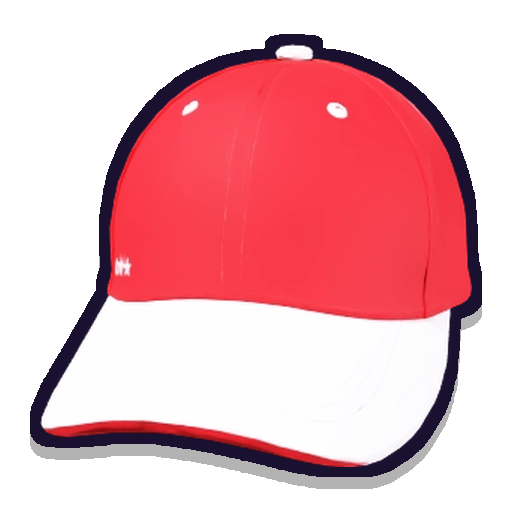
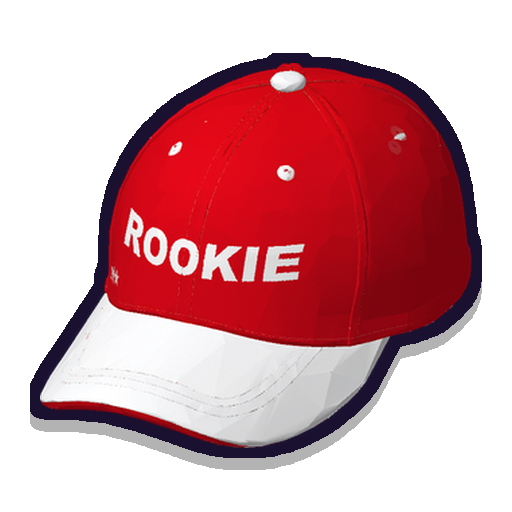
feat: "ROOKIE" lettering on the Rookie Cap
Meshy can't spell, so add-cap-lettering.py paints the word onto the
cap's front panel through the mesh's UVs (projected straight along z so
it reads level) and renders a new tile picture. Lettered texture and
picture uploaded; the cap is still disabled until its mesh is imported.

diff --git a/assets/seasonpass/add-cap-lettering.py b/assets/seasonpass/add-cap-lettering.py
@@ -1,0 +1,129 @@
+# Prints "ROOKIE" across the front panel of the Rookie Cap's Meshy texture.
+# Meshy can't spell, so the lettering is painted in afterwards: every texel
+# on the forward-facing crown (the peak points +z) is mapped back to its 3D
+# point, and the word is projected straight on along z, so it reads level.
+# Writes models/RookieCapHat/texture-lettered.png, and thumb-lettered.png (a
+# simple render that make-wear-pictures.py uses in place of Meshy's thumb).
+# Run: python add-cap-lettering.py  (needs numpy + Pillow)
+import json, os, struct
+import numpy as np
+from PIL import Image, ImageDraw, ImageFont
+
+HERE = os.path.dirname(os.path.abspath(__file__))
+DIR = os.path.join(HERE, "models", "RookieCapHat")
+WORD, FONT = "ROOKIE", "C:/Windows/Fonts/ariblk.ttf"
+TEXT_W, TEXT_CY = 0.74, 0.04  # model units: word width, and its centre height
+INK = (255, 255, 255)
+
+# --- mesh -------------------------------------------------------------------
+raw = open(os.path.join(DIR, "model.glb"), "rb").read()
+jlen = struct.unpack("<I", raw[12:16])[0]
+gltf, binary = json.loads(raw[20 : 20 + jlen]), raw[20 + jlen + 8 :]
+
+def accessor(i):
+    a = gltf["accessors"][i]
+    view = gltf["bufferViews"][a["bufferView"]]
+    width = {"VEC3": 3, "VEC2": 2, "SCALAR": 1}[a["type"]]
+    dtype = np.float32 if a["componentType"] == 5126 else np.uint32
+    offset = view.get("byteOffset", 0) + a.get("byteOffset", 0)
+    return np.frombuffer(binary, dtype, a["count"] * width, offset).reshape(-1, width)
+
+attrs = gltf["meshes"][0]["primitives"][0]
+P = accessor(attrs["attributes"]["POSITION"]).astype(np.float64)
+N = accessor(attrs["attributes"]["NORMAL"]).astype(np.float64)
+UV = accessor(attrs["attributes"]["TEXCOORD_0"]).astype(np.float64)
+TRI = accessor(attrs["indices"]).reshape(-1, 3)
+
+# --- the word, as a mask over the model's xy plane ---------------------------
+font = ImageFont.truetype(FONT, 200)
+box = font.getbbox(WORD)
+mask = Image.new("L", (box[2] - box[0] + 40, box[3] - box[1] + 40))
+ImageDraw.Draw(mask).text((20 - box[0], 20 - box[1]), WORD, font=font, fill=255)
+mask = np.asarray(mask, np.float64) / 255
+mh, mw = mask.shape
+units_per_px = TEXT_W / mw
+x0, y0 = -TEXT_W / 2, TEXT_CY + mh * units_per_px / 2  # top-left of the mask
+
+def word_alpha(xy):
+    col = ((xy[:, 0] - x0) / units_per_px).astype(int)  # seen from +z, +x is right
+    row = ((y0 - xy[:, 1]) / units_per_px).astype(int)
+    ok = (col >= 0) & (col < mw) & (row >= 0) & (row < mh)
+    out = np.zeros(len(xy))
+    out[ok] = mask[row[ok], col[ok]]
+    return out
+
+# --- paint it into the texture, triangle by triangle in UV space --------------
+tex = np.asarray(Image.open(os.path.join(DIR, "texture.png")).convert("RGB"), np.float64)
+H, W = tex.shape[:2]
+front = (N[TRI].mean(1)[:, 2] > 0.3) & (P[TRI].mean(1)[:, 2] > 0) & (P[TRI].min(1)[:, 1] > -0.32)
+for t in TRI[front]:
+    uv = UV[t] * [W, H]
+    lo = np.floor(uv.min(0)).astype(int) - 1
+    hi = np.ceil(uv.max(0)).astype(int) + 1
+    xs, ys = np.meshgrid(np.arange(lo[0], hi[0]) + 0.5, np.arange(lo[1], hi[1]) + 0.5)
+    pts = np.stack([xs.ravel(), ys.ravel()], 1)
+    (ax, ay), (bx, by), (cx, cy) = uv
+    det = (by - cy) * (ax - cx) + (cx - bx) * (ay - cy)
+    if abs(det) < 1e-9:
+        continue
+    l1 = ((by - cy) * (pts[:, 0] - cx) + (cx - bx) * (pts[:, 1] - cy)) / det
+    l2 = ((cy - ay) * (pts[:, 0] - cx) + (ax - cx) * (pts[:, 1] - cy)) / det
+    bary = np.stack([l1, l2, 1 - l1 - l2], 1)
+    inside = (bary > -0.05).all(1)  # a little bleed so UV seams don't show
+    pts, bary = pts[inside], bary[inside]
+    a = word_alpha(bary @ P[t][:, :2])
+    px = np.clip(pts.astype(int), 0, [W - 1, H - 1])
+    hit = a > 0
+    px, a = px[hit], a[hit, None]
+    tex[px[:, 1], px[:, 0]] = tex[px[:, 1], px[:, 0]] * (1 - a) + np.array(INK) * a
+Image.fromarray(tex.astype(np.uint8)).save(os.path.join(DIR, "texture-lettered.png"))
+print("wrote texture-lettered.png")
+
+# --- a quick render for the tile picture (orthographic, front three-quarter) --
+S = 1024
+yaw, pitch = np.radians(-30), np.radians(22)
+Ry = np.array([[np.cos(yaw), 0, np.sin(yaw)], [0, 1, 0], [-np.sin(yaw), 0, np.cos(yaw)]])
+Rx = np.array([[1, 0, 0], [0, np.cos(pitch), -np.sin(pitch)], [0, np.sin(pitch), np.cos(pitch)]])
+R = Rx @ Ry
+V, VN = P @ R.T, N @ R.T
+scale = S * 0.42
+sx, sy = S / 2 + V[:, 0] * scale, S / 2 - V[:, 1] * scale
+img = np.zeros((S, S, 4))
+zbuf = np.full((S, S), -np.inf)
+light = np.array([-0.4, 0.6, 0.7]) / np.linalg.norm([-0.4, 0.6, 0.7])
+for t in TRI:
+    X, Y = sx[t], sy[t]
+    lo = np.maximum(np.floor([X.min(), Y.min()]).astype(int), 0)
+    hi = np.minimum(np.ceil([X.max(), Y.max()]).astype(int) + 1, S)
+    if (hi <= lo).any():
+        continue
+    xs, ys = np.meshgrid(np.arange(lo[0], hi[0]) + 0.5, np.arange(lo[1], hi[1]) + 0.5)
+    det = (Y[1] - Y[2]) * (X[0] - X[2]) + (X[2] - X[1]) * (Y[0] - Y[2])
+    if abs(det) < 1e-9:
+        continue
+    l1 = ((Y[1] - Y[2]) * (xs - X[2]) + (X[2] - X[1]) * (ys - Y[2])) / det
+    l2 = ((Y[2] - Y[0]) * (xs - X[2]) + (X[0] - X[2]) * (ys - Y[2])) / det
+    l3 = 1 - l1 - l2
+    inside = (l1 >= 0) & (l2 >= 0) & (l3 >= 0)
+    if not inside.any():
+        continue
+    b = np.stack([l1[inside], l2[inside], l3[inside]], 1)
+    z = b @ V[t][:, 2]
+    iy, ix = ys[inside].astype(int), xs[inside].astype(int)
+    near = z > zbuf[iy, ix]
+    if not near.any():
+        continue
+    b, z, iy, ix = b[near], z[near], iy[near], ix[near]
+    zbuf[iy, ix] = z
+    uv = b @ UV[t]
+    colour = tex[np.clip((uv[:, 1] * H).astype(int), 0, H - 1), np.clip((uv[:, 0] * W).astype(int), 0, W - 1)]
+    n = b @ VN[t]
+    n /= np.linalg.norm(n, axis=1, keepdims=True) + 1e-9
+    n[n[:, 2] < 0] *= -1  # double-sided: light the inside too
+    shade = 0.55 + 0.5 * np.clip(n @ light, 0, 1)
+    img[iy, ix, :3] = np.clip(colour * shade[:, None], 0, 255)
+    img[iy, ix, 3] = 255
+Image.fromarray(img.astype(np.uint8), "RGBA").resize((512, 512), Image.LANCZOS).save(
+    os.path.join(DIR, "thumb-lettered.png")
+)
+print("wrote thumb-lettered.png")

diff --git a/assets/seasonpass/make-wear-pictures.py b/assets/seasonpass/make-wear-pictures.py
@@ -21,7 +21,11 @@ NAMES = {
 }
 
 for folder, out in NAMES.items():
-    im = Image.open(os.path.join(HERE, "models", folder, "thumb.png")).convert("RGBA")
+    # A painted-over texture (add-cap-lettering.py) brings its own render.
+    thumb = os.path.join(HERE, "models", folder, "thumb-lettered.png")
+    if not os.path.exists(thumb):
+        thumb = os.path.join(HERE, "models", folder, "thumb.png")
+    im = Image.open(thumb).convert("RGBA")
     a = im.getchannel("A").point(lambda v: 255 if v > 40 else 0)
     im = im.crop(a.getbbox())
     fit = S - 2 * PAD
